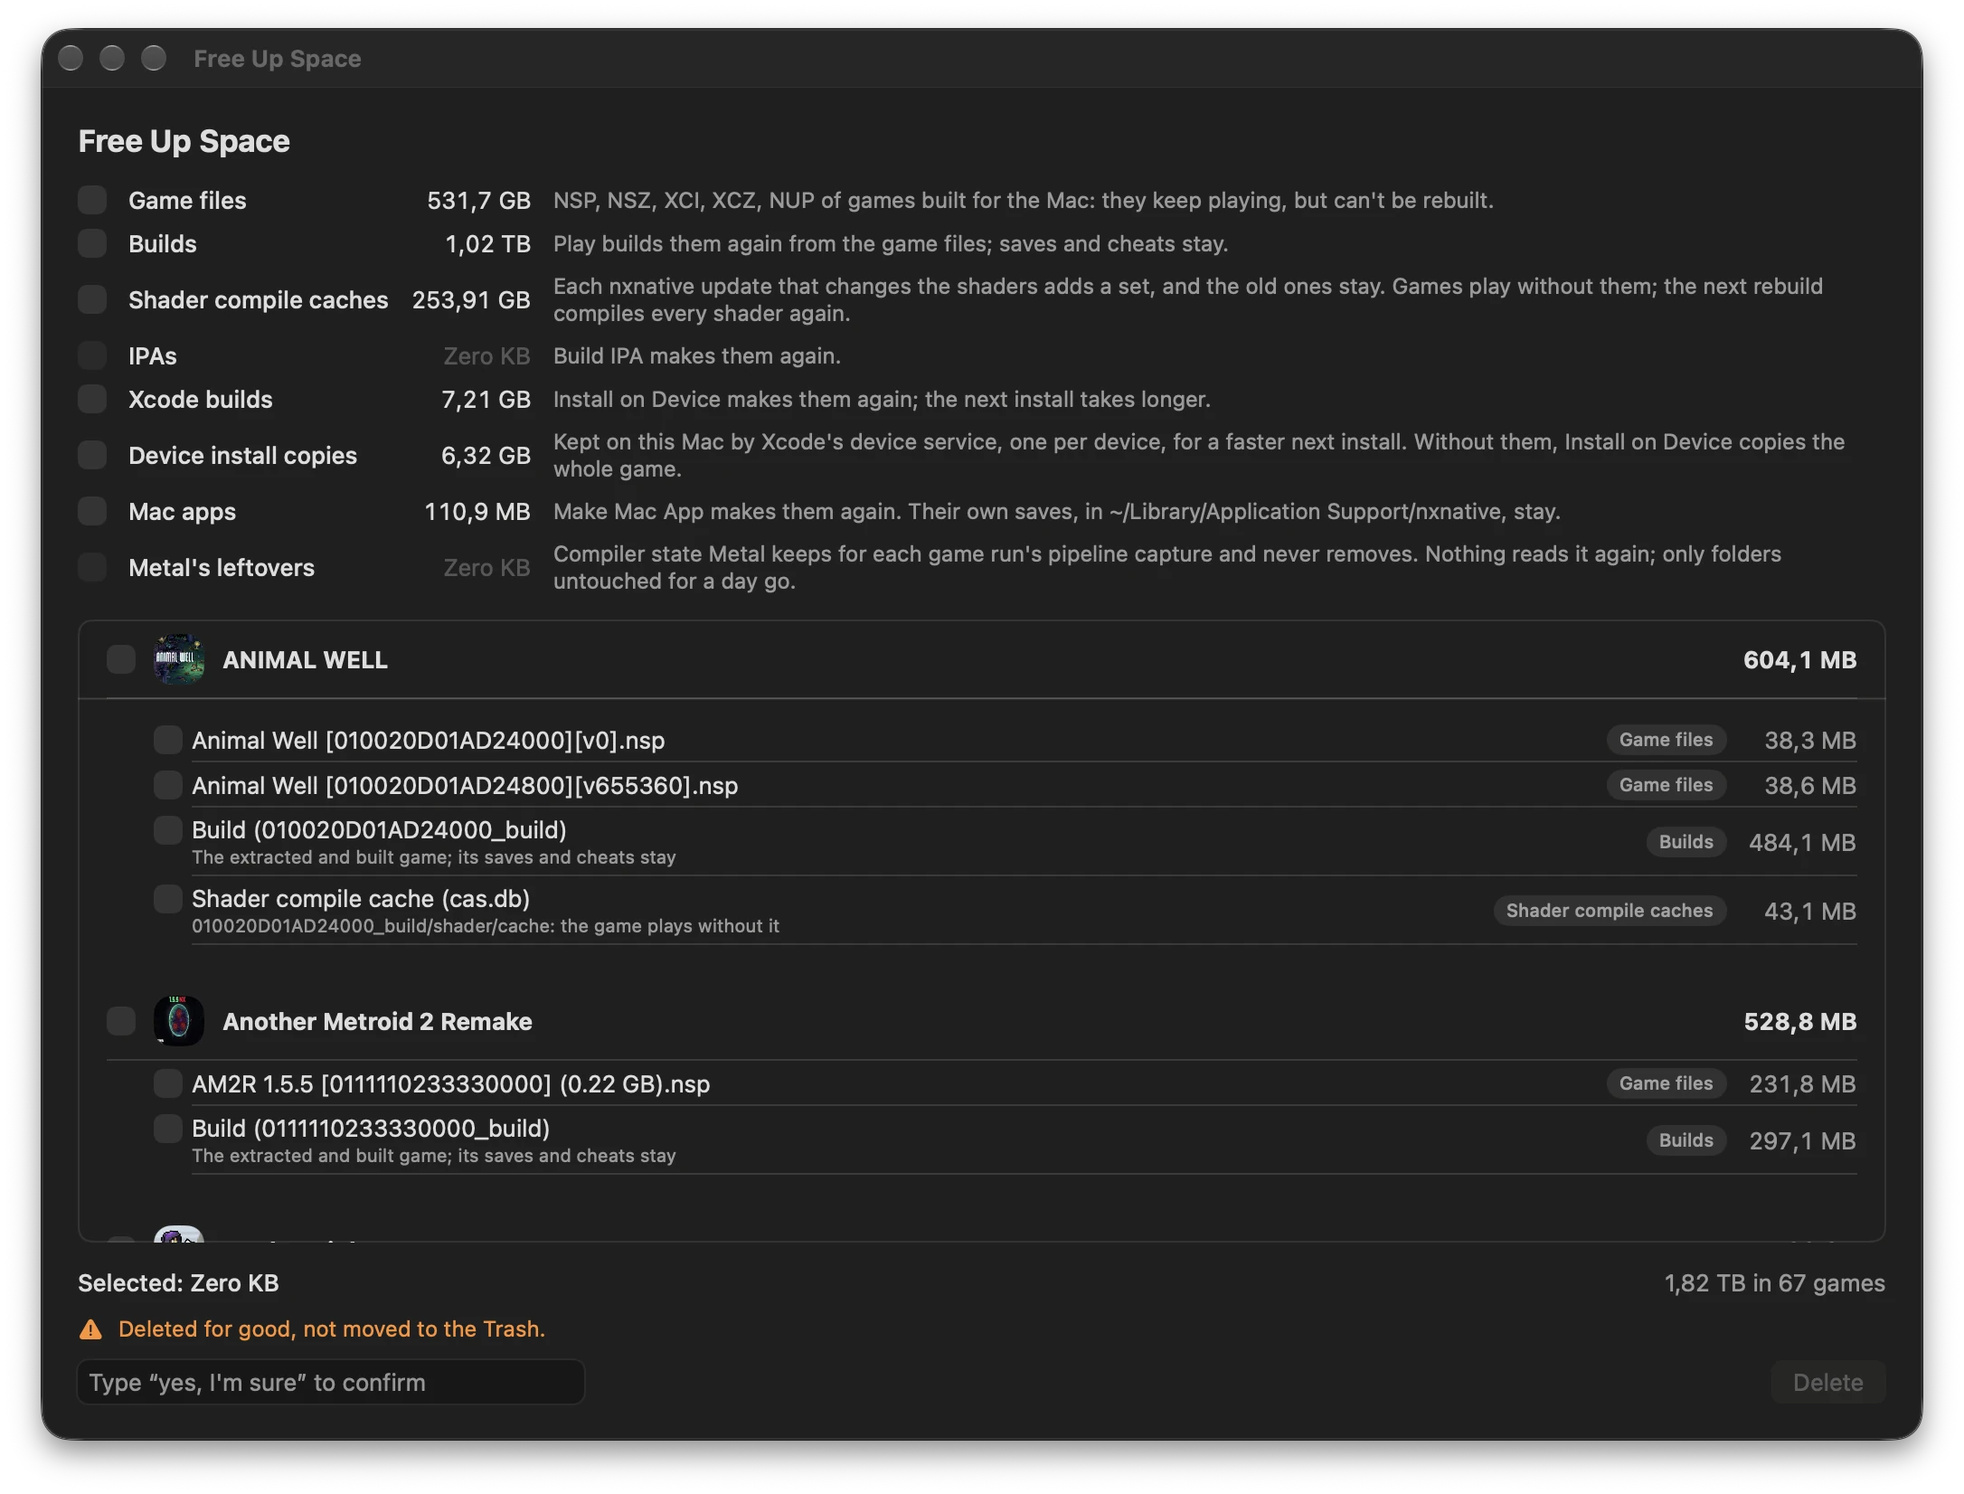
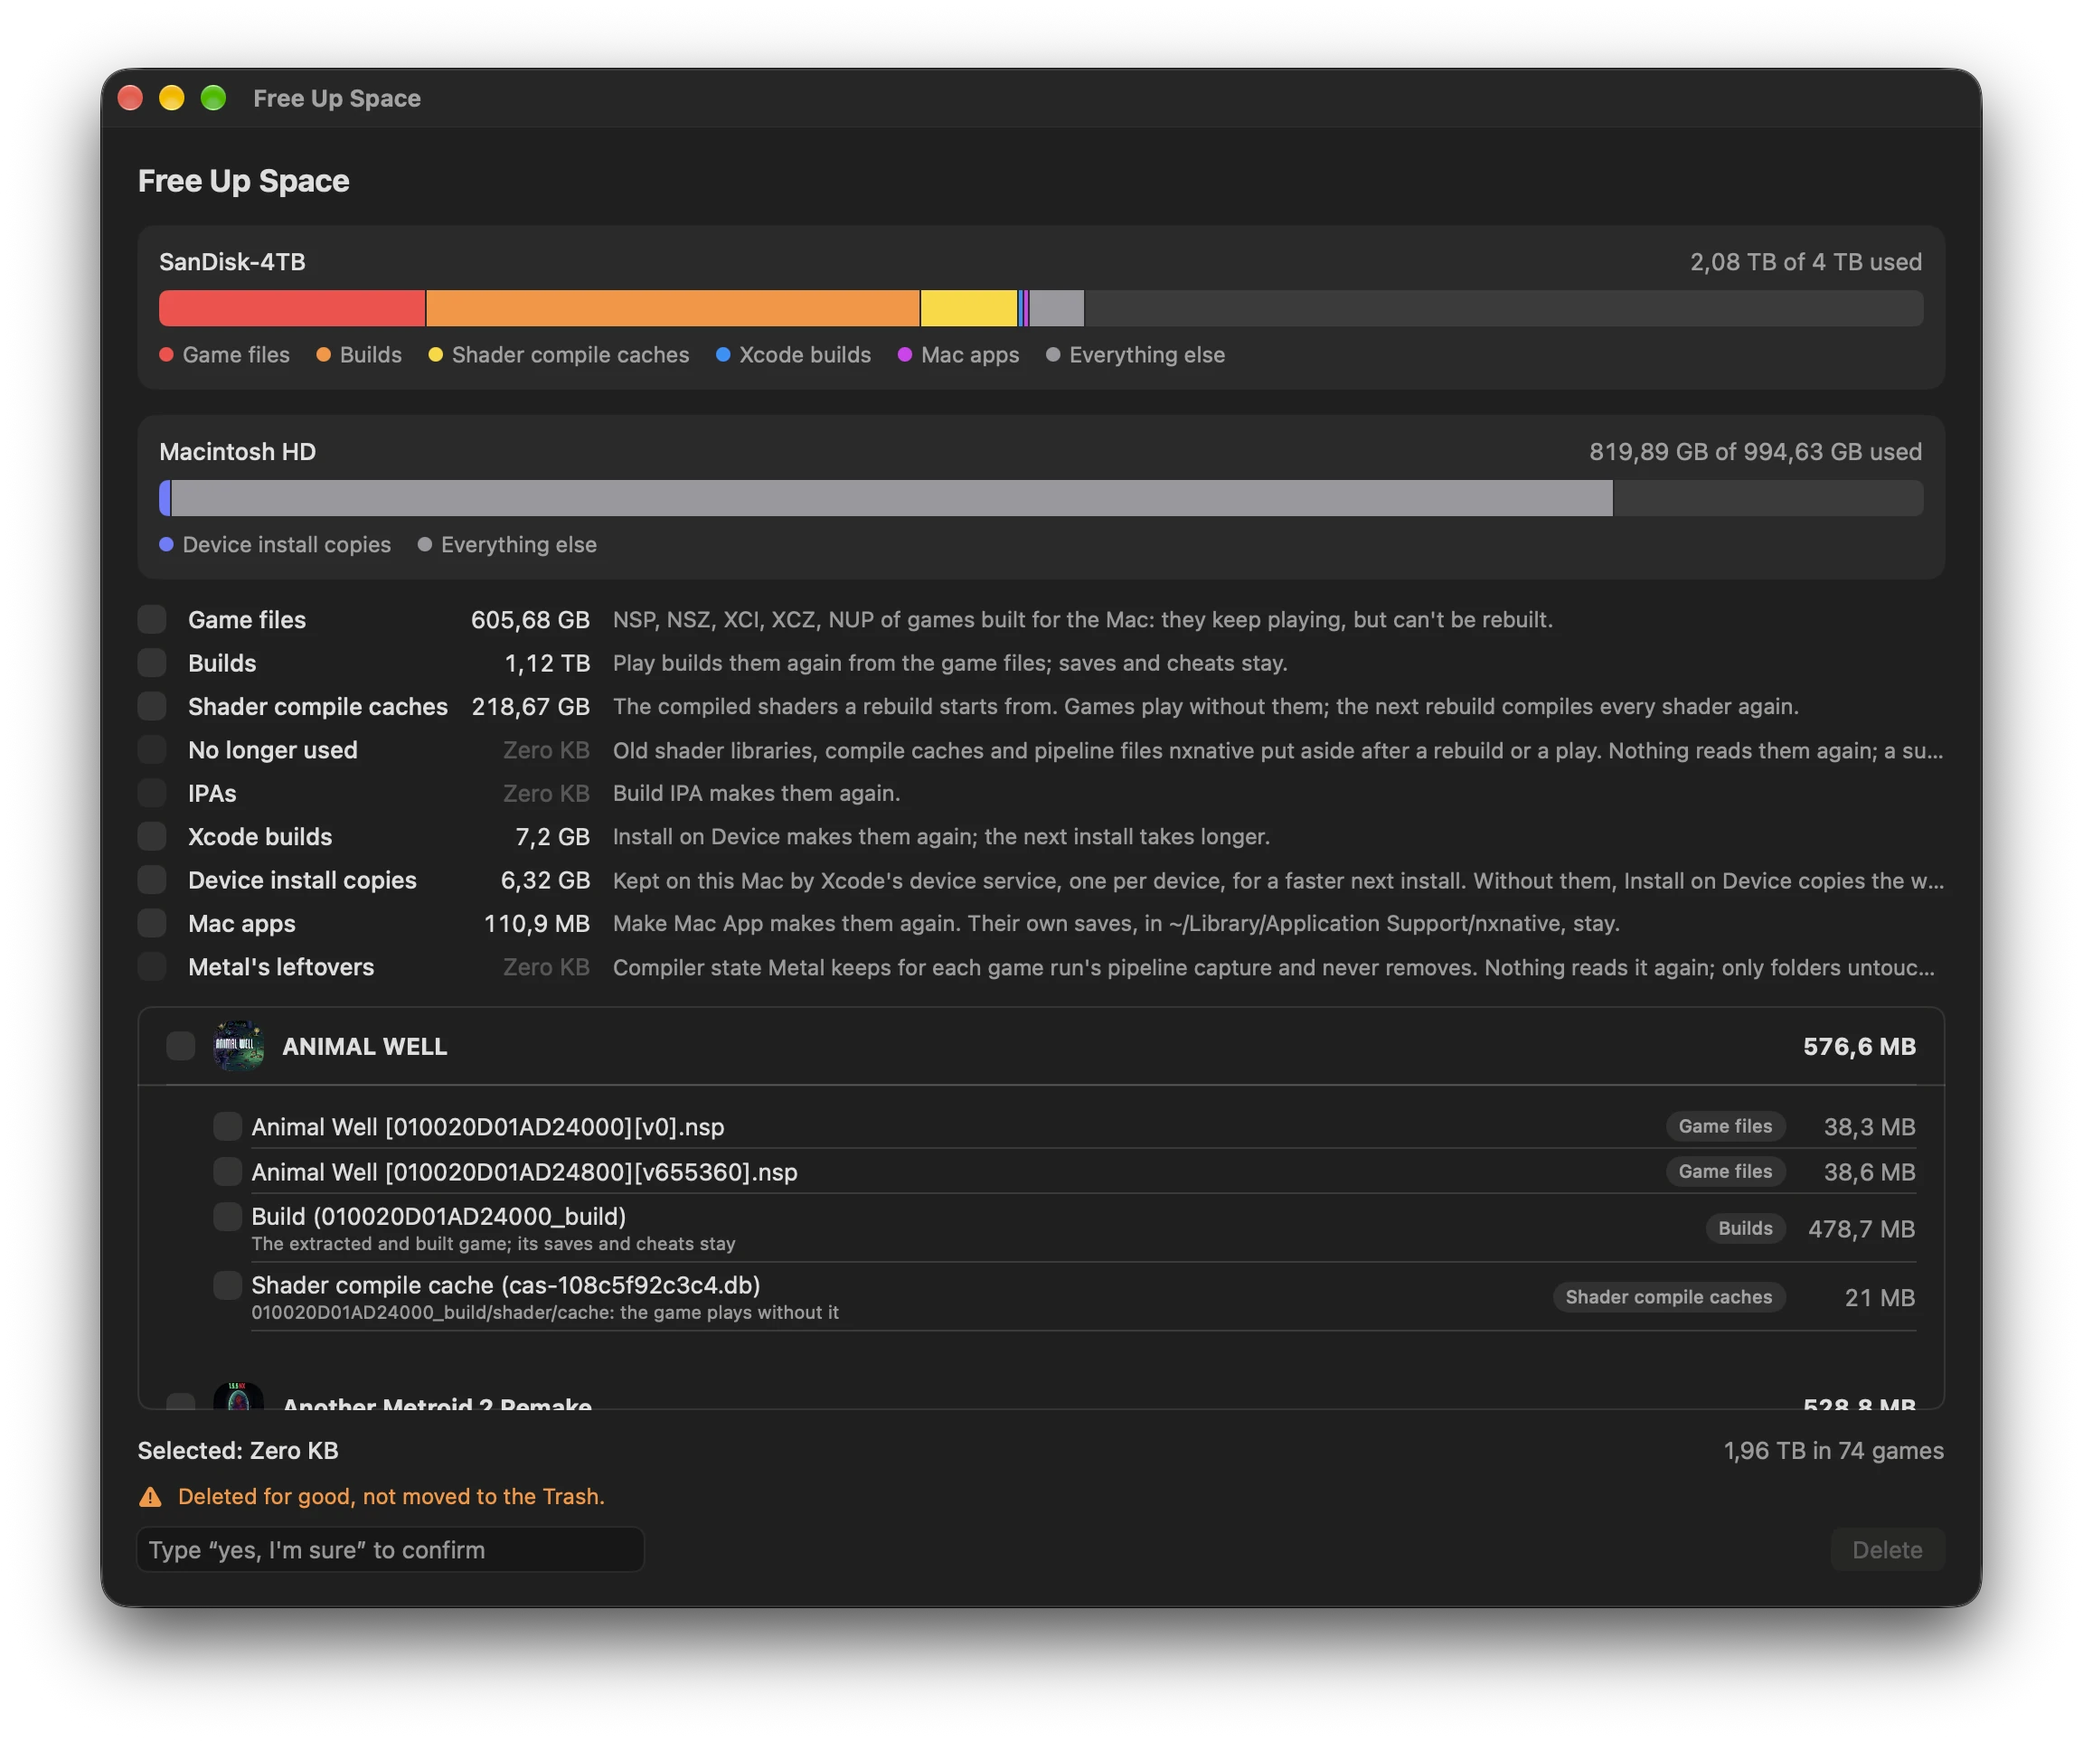
Let Free Up Space's bars fill in while measuring, and fit the window to them
Waiting for the sizes to pause left the bars grey until the scan ended, as
they never pause; the fixed minimum height cut off the list once the bars
took their room. The screenshot shows the bars now.

Changed region(s): [[0.0, 0.0, 0.9871, 0.9879]]

diff --git a/Packages/NXPlayKit/Sources/NXPlayKit/Views/CleanupView.swift b/Packages/NXPlayKit/Sources/NXPlayKit/Views/CleanupView.swift
@@ -9,6 +9,7 @@ public struct CleanupView: View {
     @State private var cleanup = Cleanup(
         cache: SizeCache(), installCopies: DeviceInstallCopies.folder, metalState: MetalLeftovers.folder)
     @State private var volumes: [CleanupVolume] = []
+    @State private var volumesAt = Date.distantPast
 
     public init() {}
 
@@ -26,14 +27,17 @@ public struct CleanupView: View {
             }
         }
         .padding(20)
-        .frame(minWidth: 680, minHeight: 560)
+        // no fixed height: the window can't get smaller than what's in it (the list keeps a few rows), which the
+        // drives' bars made taller than a fixed minimum allowed for
+        .frame(minWidth: 680)
         .task { await rescan() }
         // which volume each file is on asks the file system: off the main thread, as the sizes come in
         .task(id: cleanup.files) {
-            // sizes come in by the dozen a second while the scan measures: the bars follow once they pause (a new
-            // size cancels this wait), and the first ones, before any, come at once
-            if !volumes.isEmpty {
-                try? await Task.sleep(for: .milliseconds(300))
+            // sizes come in by the dozen a second while the scan measures: the bars follow at most every 0.4 s, so
+            // they fill in as it goes (waiting for a pause left them grey until the end, as sizes never pause)
+            let wait = 0.4 - Date.now.timeIntervalSince(volumesAt)
+            if wait > 0 {
+                try? await Task.sleep(for: .seconds(wait))
                 guard !Task.isCancelled else { return }
             }
             // the Mac's own drive too: Xcode builds, install copies, Mac apps and Metal's leftovers are there
@@ -41,6 +45,7 @@ public struct CleanupView: View {
             let found = await Task.detached { Cleanup.volumes(of: files, also: roots) }.value
             guard !Task.isCancelled else { return }
             volumes = found
+            volumesAt = .now
         }
         // the main window refreshes the library when the app comes back to the front: a game added or gone
         // rescans here through that, and coming back costs no second refresh and no measuring everything again
@@ -140,6 +145,7 @@ public struct CleanupView: View {
             }
         }
         .listStyle(.inset(alternatesRowBackgrounds: false))
+        .frame(minHeight: 160)
         .clipShape(RoundedRectangle(cornerRadius: 8))
         .overlay(RoundedRectangle(cornerRadius: 8).strokeBorder(.separator))
     }

diff --git a/Packages/NXPlayKit/Sources/NXPlayKit/Views/CleanupView+Storage.swift b/Packages/NXPlayKit/Sources/NXPlayKit/Views/CleanupView+Storage.swift
@@ -29,7 +29,9 @@ struct StorageBar: View {
             Segment(id: $0.kind.rawValue, title: Text($0.kind.title), size: $0.size, color: $0.kind.color)
         }
             + [
-                Segment(id: "other", title: Text("Everything else"), size: volume.other, color: .gray),
+                Segment(
+                    id: "other", title: measuring ? Text("Everything else, still measuring") : Text("Everything else"),
+                    size: volume.other, color: .gray),
                 Segment(id: "free", title: Text("Free"), size: volume.info.available, color: .primary.opacity(0.1)),
             ]
     }
@@ -78,6 +80,9 @@ struct StorageBar: View {
                 ForEach(parts, id: \.segment.id) { part in
                     Rectangle()
                         .fill(part.segment.color)
+                        // what isn't measured yet is in it: striped, still, until the scan is done
+                        .overlay { if measuring && part.segment.id == "other" { Stripes().stroke(.white.opacity(0.25), lineWidth: 3) } }
+                        .clipped()
                         .frame(width: part.width)
                         .opacity(hovered == nil || hovered == part.segment.id ? 1 : 0.6)
                 }
@@ -137,6 +142,20 @@ struct StorageBar: View {
 
     private func bytes(_ size: Int64) -> String {
         ByteCountFormatter.string(fromByteCount: size, countStyle: .file)
+    }
+}
+
+/// Diagonal lines across a rect, a still sign of a part still being measured.
+private struct Stripes: Shape {
+    func path(in rect: CGRect) -> Path {
+        var path = Path()
+        var x = rect.minX - rect.height
+        while x < rect.maxX {
+            path.move(to: CGPoint(x: x, y: rect.maxY))
+            path.addLine(to: CGPoint(x: x + rect.height, y: rect.minY))
+            x += 8
+        }
+        return path
     }
 }
 

diff --git a/Packages/NXPlayKit/Sources/NXPlayKit/Screenshots.swift b/Packages/NXPlayKit/Sources/NXPlayKit/Screenshots.swift
@@ -294,7 +294,7 @@
             // layout, icons, the sheet's animation; full screen and Free Up Space's measuring take longer
             try? await Task.sleep(
                 for: .seconds(
-                    scene == .console || scene == .consoleDetails || scene == .freeUpSpace ? 4 : 1.5
+                    scene == .freeUpSpace ? 10 : scene == .console || scene == .consoleDetails ? 4 : 1.5
                 ))
             let target =
                 ownWindow
@@ -302,9 +302,10 @@
                     $0.isVisible && $0 !== main && $0.sheetParent == nil && $0.level == .normal
                 }
                 : main
-            // Free Up Space opens at the size it was last left at
+            // Free Up Space opens at the size it was last left at; taller than the others, for its drives' bars and
+            // a few games under them
             if scene == .freeUpSpace, let target {
-                target.setContentSize(Self.windowSize)
+                target.setContentSize(NSSize(width: Self.windowSize.width, height: 960))
                 target.center()
             }
             target?.makeKeyAndOrderFront(nil)

diff --git a/App/NXPlayApp.swift b/App/NXPlayApp.swift
@@ -71,7 +71,8 @@ struct NXPlayApp: App {
             CleanupView()
                 .library(library)
         }
-        .defaultSize(width: 760, height: 680)
+        .defaultSize(width: 760, height: 860)
+        .windowResizability(.contentMinSize)
 
         Window("Setup", id: SetupView.windowID) {
             SetupView()

diff --git a/README.md b/README.md
@@ -221,7 +221,7 @@ Everything the game runs uses it (extract, play, rebuild, IPA, Mac app, device i
 
 Pick files one by one, a whole game, or a whole kind. Nothing is selected until you pick it, and deleting needs you to type “yes, I'm sure”. Everything is deleted for good, not moved to the Trash.
 
-![Free Up Space: game files, builds, shader compile caches, IPAs, Xcode builds, device install copies, Mac apps and Metal's leftovers, per game with their sizes](docs/free-up-space.webp)
+![Free Up Space: a storage bar for each drive, then game files, builds, shader compile caches, IPAs, Xcode builds, device install copies, Mac apps and Metal's leftovers, per game with their sizes](docs/free-up-space.webp)
 
 nxnative unpacks an NSZ or XCZ into the build folder's `nsp/` before building, and keeps that copy, so the game takes up its space about twice, and a build without the folder unpacks it again. **Settings › General › Keep only the unpacked copy of NSZ and XCZ games** stops that. Once a game is built for the Mac, its unpacked NSP or XCI moves into the game folder and the NSZ or XCZ goes to the Trash; from then on the game builds from the NSP. Only a file nxnative recorded as unpacked from exactly that NSZ moves, and nothing moves while the game builds or runs. Turning it on offers to do the same for the games built already. It's off by default, since it changes your own files.
 

diff --git a/CHANGELOG.md b/CHANGELOG.md
@@ -7,7 +7,7 @@ User-visible changes to NX Play, `nxplay` and the setup. The format follows [Kee
 ### Added
 
 - Beside the first section's count, the library shows the filter that's on, if any, and the order as icons, so a count isn't taken for all the games. Click it for the same choices as the toolbar's Sort and Filter menu.
-- Free Up Space shows a storage bar for each drive its files are on, as System Settings › Storage does: how much each kind takes, the rest of what's used, and what's free. Hover a part for its size.
+- Free Up Space shows a storage bar for each drive its files are on, as System Settings › Storage does: how much each kind takes, the rest of what's used, and what's free. The bars fill in as the sizes are measured, the rest striped until then; hover a part for its size.
 
 ### Changed
 
